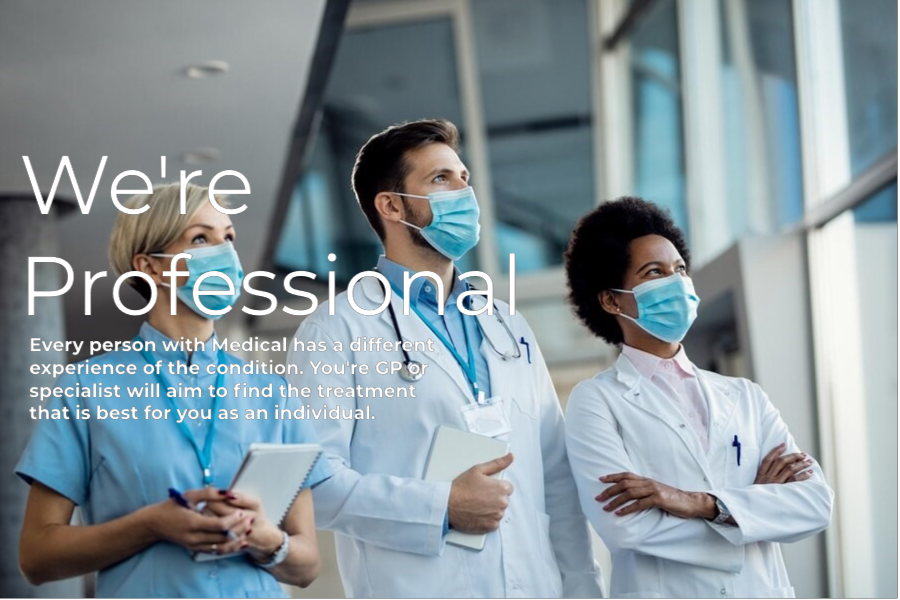
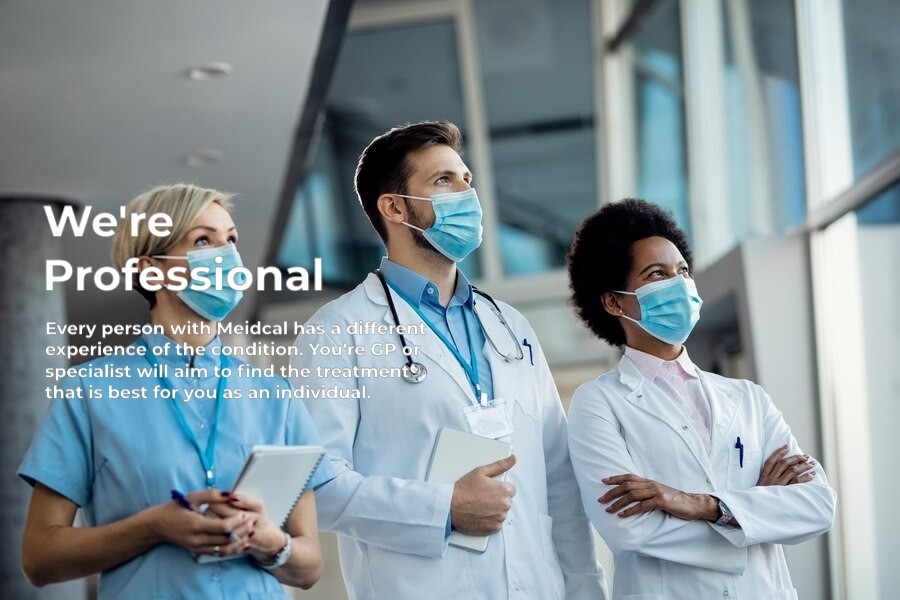
ndryshime ne foto e sliderit kryesor

diff --git a/reactapp1.client/src/App.jsx b/reactapp1.client/src/App.jsx
@@ -20,7 +20,7 @@ const RegisterForm = React.lazy(() => import("./RegisterForm"));
 const LoginForm = React.lazy(() => import("./LoginForm"));
 const AboutUs = React.lazy(() => import("./AboutUs"));
 const Header = () => {
-const images = [i3, i2, i4];
+    const images = [i2, i4, i3];
 
 
 
@@ -31,7 +31,7 @@ const images = [i3, i2, i4];
                       <Container fluid>
                           <Navbar.Brand href="/">
 
-                              Medical
+                                Medical
                           </Navbar.Brand>
                           <Navbar.Toggle aria-controls="basic-navbar-nav" />
                           <Navbar.Collapse id="basic-navbar-nav">

diff --git a/reactapp1.client/src/PatientCRUD.jsx b/reactapp1.client/src/PatientCRUD.jsx
@@ -2,7 +2,7 @@ import React from "react"
 function PatientCRUD(){
     return (
         <>
-            <div>hi</div>
+           
         </>
     
     )
